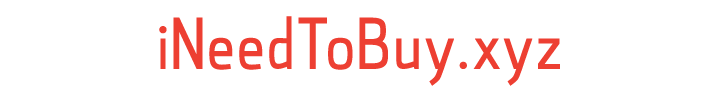
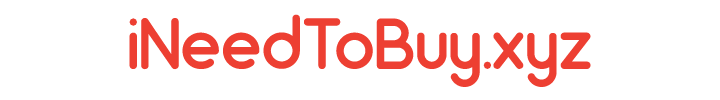
Make the thing look a whole lot more like an app

Changed region(s): [[0.1528, 0.15, 0.825, 0.87]]

diff --git a/ineedtobuy-xyz/src/components/AddThing.js b/ineedtobuy-xyz/src/components/AddThing.js
@@ -5,6 +5,7 @@ import Quagga from 'quagga';
 import { Timestamp } from '../lib/firebase.js';
 import fetchBarcodeInfo from '../lib/barcodes.js';
 
+import Header from './Header';
 import Footer from './Footer';
 
 class AddThing extends Component {
@@ -148,33 +149,31 @@ class AddThing extends Component {
 
         return (
             <main className="add-thing full-viewport container">
-                <header>
-                    <h1>iNeedToBuy.xyz</h1>
-                </header>
-                <h2>Add a thing</h2>
-                <form onSubmit={this.onSubmit}>
-                    <img src={imgSrc} alt="Barcode capture" id="output" style={{
-                        maxWidth: '90vw'
-                    }} />
-                    <div>
-                        <label>
-                            Scan barcode: <input type="file" name="intb-scan" accept="image/*" capture="environment" onChange={this.onImageChange} />
-                        </label>
-                    </div>
-                    <div>
-                        <label>
-                            Name: <input type="text" name="intb-name" onChange={this.onNameChange} value={nameValue} placeholder="Tofu" />
-                        </label>
-                    </div>
-                    <div>
-                        <label>
-                            Barcode: <input type="number" name="intb-barcode" onChange={this.onBarcodeChange} value={barcodeValue} placeholder="1234567890" />
-                        </label>
-                    </div>
-                    <p>
-                        <button onClick={this.onSubmit}>Add it</button>
-                    </p>
-                </form>
+                <Header />
+                <section>
+                    <h2>Add a thing</h2>
+                    <form onSubmit={this.onSubmit}>
+                        <img src={imgSrc} alt="Barcode capture" id="output" />
+                        <div>
+                            <label>
+                                Scan barcode: <input type="file" name="intb-scan" accept="image/*" capture="environment" onChange={this.onImageChange} />
+                            </label>
+                        </div>
+                        <div>
+                            <label>
+                                Name: <input type="text" name="intb-name" onChange={this.onNameChange} value={nameValue} placeholder="Tofu" />
+                            </label>
+                        </div>
+                        <div>
+                            <label>
+                                Barcode: <input type="number" name="intb-barcode" onChange={this.onBarcodeChange} value={barcodeValue} placeholder="1234567890" />
+                            </label>
+                        </div>
+                        <p>
+                            <button onClick={this.onSubmit}>Add it</button>
+                        </p>
+                    </form>
+                </section>
                 <Footer current="add" />
             </main>
         );

diff --git a/ineedtobuy-xyz/src/components/Purchases.js b/ineedtobuy-xyz/src/components/Purchases.js
@@ -1,4 +1,4 @@
-import React, { Component, Fragment } from 'react';
+import React, { Component } from 'react';
 import { Link } from 'react-router-dom';
 import { FirestoreCollection } from 'react-firestore';
 
@@ -7,6 +7,7 @@ import calculateEstimate from '../lib/estimates';
 import { Timestamp } from '../lib/firebase.js';
 
 import Loading from './Loading';
+import Header from './Header';
 import Footer from './Footer';
 
 /**
@@ -86,7 +87,7 @@ class Purchases extends Component {
                         });
 
                         purchases = (
-                            <Fragment>
+                            <section>
                                 <p>Number of purchases: {data.length}</p>
                                 <ul>
                                     {things.map(thing => {
@@ -104,21 +105,21 @@ class Purchases extends Component {
                                         );
                                     })}
                                 </ul>
-                            </Fragment>
+                            </section>
                         );
                     }
                     else {
                         purchases = (
-                            <p>No purchases just yet.</p>
+                            <section>
+                                <p>No purchases just yet.</p>
+                            </section>
                         );
                     }
 
                     // everything else to be rendered goes here
                     return (
                         <main className="purchases full-viewport container">
-                            <header>
-                                <h1>iNeedToBuy.xyz</h1>
-                            </header>
+                            <Header />
                             {purchases}
                             <Footer current="purchases" />
                         </main>

diff --git a/ineedtobuy-xyz/src/components/Thing.js b/ineedtobuy-xyz/src/components/Thing.js
@@ -4,6 +4,7 @@ import { FirestoreCollection } from 'react-firestore';
 import { getLastAndNext } from '../lib/dates';
 
 import Loading from './Loading';
+import Header from './Header';
 import Footer from './Footer';
 import ThingDetails from './ThingDetails';
 
@@ -47,14 +48,12 @@ class Thing extends Component {
 
                     return (
                         <main className="thing full-viewport container">
-                            <header>
-                                <h1>iNeedToBuy.xyz</h1>
-                            </header>
-                            <main>
+                            <Header />
+                            <section>
                                 <ThingDetails barcode={barcode} />
                                 <hr />
                                 {purchases}
-                            </main>
+                            </section>
                             <Footer current="thing" />
                         </main>
                     );

diff --git a/ineedtobuy-xyz/src/components/Loading.js b/ineedtobuy-xyz/src/components/Loading.js
@@ -1,10 +1,17 @@
 import React, { Component } from 'react';
 
+import Header from './Header';
+import Footer from './Footer';
+
 class Loading extends Component {
     render() {
         return (
             <main className="loading full-viewport container">
-                <h1>Loading…</h1>
+                <Header />
+                <section>
+                    <img src="/img/loading.gif" alt="Loading…" />
+                </section>
+                <Footer current="loading" />
             </main>
         );
     }

diff --git a/ineedtobuy-xyz/src/App.scss b/ineedtobuy-xyz/src/App.scss
@@ -17,12 +17,21 @@ body {
 }
 
 .container {
-    overflow: auto;
-    padding: 1rem;
+    section {
+        background: #f0f0f0;
+        bottom: 42px;
+        left: 0;
+        overflow: auto;
+        padding: 1rem;
+        position: absolute;
+        right: 0;
+        top: 51px;
+    }
 }
 
 @import 'css/AddThing.scss';
 @import 'css/FirstRun.scss';
 @import 'css/Footer.scss';
+@import 'css/Header.scss';
 @import 'css/Loading.scss';
 @import 'css/Purchases.scss';

diff --git a/ineedtobuy-xyz/src/css/Footer.scss b/ineedtobuy-xyz/src/css/Footer.scss
@@ -16,7 +16,7 @@ footer {
             a {
                 background: #ccc;
                 display: block;
-                padding: 5px;
+                padding: 10px;
                 text-align: center;
 
                 img {
@@ -28,7 +28,7 @@ footer {
 
         li.selected {
             a {
-                background: #666;
+                background: #999;
             }
         }
     }

diff --git a/ineedtobuy-xyz/src/components/Header.js b/ineedtobuy-xyz/src/components/Header.js
@@ -1,0 +1,16 @@
+import React, { Component } from 'react';
+import { Link } from 'react-router-dom';
+
+class Header extends Component {
+    render() {
+        return (
+            <header>
+                <Link to="/">
+                    <img src="/img/header.png" alt="Home" />
+                </Link>
+            </header>
+        );
+    }
+}
+
+export default Header;

diff --git a/ineedtobuy-xyz/src/css/Loading.scss b/ineedtobuy-xyz/src/css/Loading.scss
@@ -1,3 +1,13 @@
 .loading {
-    background: white url("/img/loading.gif") center center no-repeat;
+    section {
+        img {
+            display: block;
+            height: 256px;
+            left: 50%;
+            margin: -128px 0 0 -128px;
+            position: absolute;
+            top: 50%;
+            width: auto;
+        }
+    }
 }

diff --git a/ineedtobuy-xyz/src/css/Header.scss b/ineedtobuy-xyz/src/css/Header.scss
@@ -1,0 +1,18 @@
+header {
+    border-bottom: solid 1px #ccc;
+    height: 50px;
+    top: 0;
+    left: 0;
+    position: fixed;
+    right: 0;
+
+    a {
+        display: block;
+        text-align: center;
+
+        img {
+            height: 50px;
+            width: auto;
+        }
+    }
+}

diff --git a/ineedtobuy-xyz/src/css/AddThing.scss b/ineedtobuy-xyz/src/css/AddThing.scss
@@ -1,1 +1,5 @@
-.add-thing {}
+.add-thing {
+    #output {
+        max-height: 40vh;
+    }
+}
